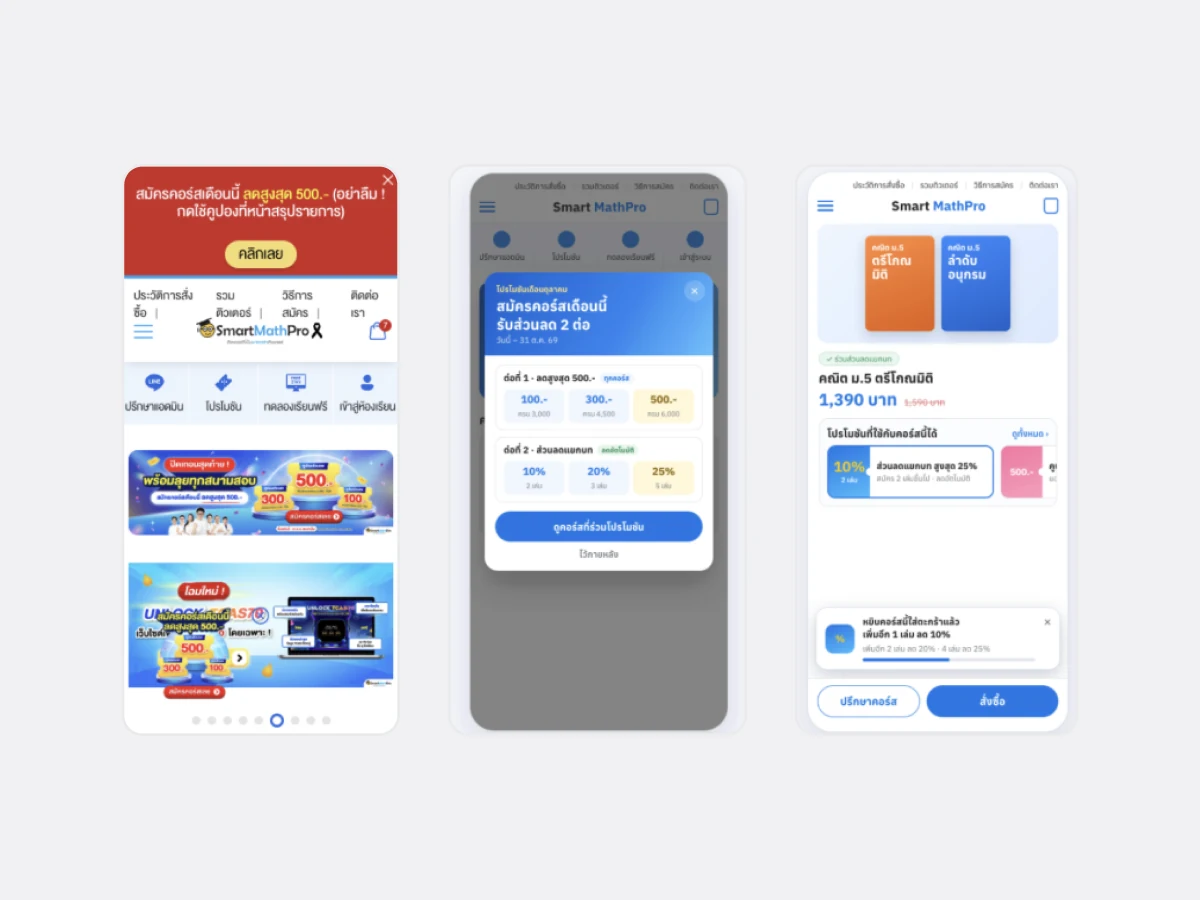
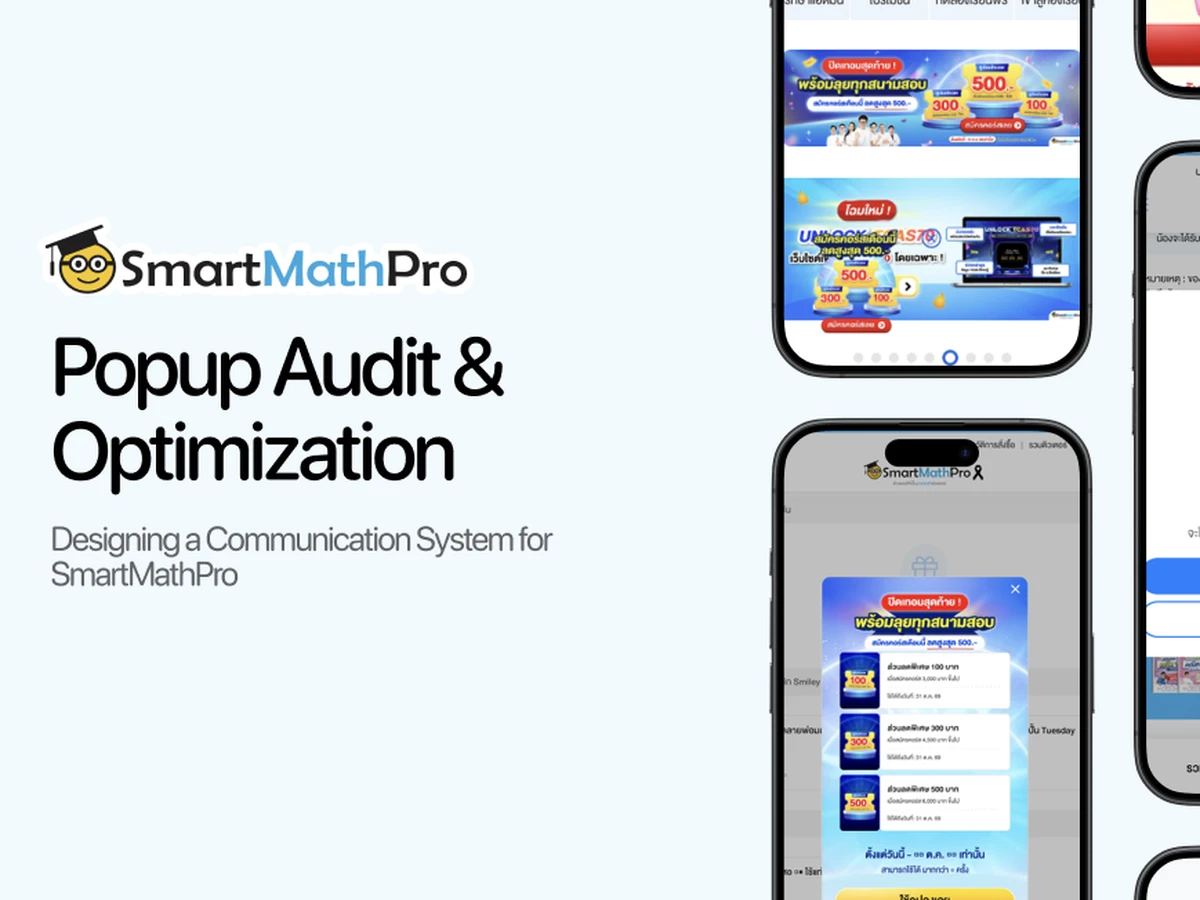
SMP: new cover image, simplify example 3 table to three promotions
Claude-Session: https://claude.ai/code/session_01E1p4hhzfoDJWiCQamLmMo5

diff --git a/src/pages/work/SMP.jsx b/src/pages/work/SMP.jsx
@@ -149,30 +149,25 @@ const SMP = () => {
                                 title="Example 3: Account"
                                 problem="Popups stacked on top of each other and had to be closed one by one."
                                 problemScreens={<img src="/img/work/smp/ex3-before.webp" alt="Account page with several promotion pop-ups stacked on top of each other" loading="lazy" className="w-full max-w-[290px] h-auto rounded-lg" />}
-                                solution="Give each popup its own place, at the moment users need it, instead of stacking them in the middle of the screen."
-                                wide={
+                                solution="Keep all 3 promotions, but give each its own place and moment."
+                                solutionContent={
                                     <div className="rounded-lg border border-(--color-border) bg-white px-4 overflow-x-auto">
                                         <table className="w-full text-sm text-left">
                                             <thead>
                                                 <tr className="text-(--color-text-tertiary) border-b border-(--color-border)">
                                                     <th className="font-normal py-2 pr-3">Promotion</th>
-                                                    <th className="font-normal py-2 pr-3">Shown when</th>
-                                                    <th className="font-normal py-2">Placement</th>
+                                                    <th className="font-normal py-2">Where it appears</th>
                                                 </tr>
                                             </thead>
                                             <tbody className="text-(--color-text-primary)">
                                                 {[
-                                                    ['Up to 500 THB off', 'Entering the site', 'Homepage promo bar, auto-applied'],
-                                                    ['Birthday campaign', 'Entering the site', 'Homepage banner and account page'],
-                                                    ['400–600 THB off', 'Comparing courses', 'Course benefits box, below the price'],
-                                                    ['Buy 1 more, 10% off', 'Viewing a course, at the cart', 'Course benefits box and cart nudge'],
-                                                    ['100 THB new customer', 'At checkout', 'Auto-applied in order summary'],
-                                                    ['Delivery notice', 'Visiting the account', 'Account page announcement bar'],
-                                                ].map(([a, b, c], i, arr) => (
+                                                    ['Up to 500 THB off', 'Course page and homepage banner'],
+                                                    ['New customer offer', 'When entering the site'],
+                                                    ['Birthday campaign', 'Banner'],
+                                                ].map(([a, b], i, arr) => (
                                                     <tr key={a} className={i < arr.length - 1 ? 'border-b border-(--color-border)' : ''}>
                                                         <td className="py-2 pr-3 font-medium">{a}</td>
-                                                        <td className="py-2 pr-3">{b}</td>
-                                                        <td className="py-2">{c}</td>
+                                                        <td className="py-2">{b}</td>
                                                     </tr>
                                                 ))}
                                             </tbody>
